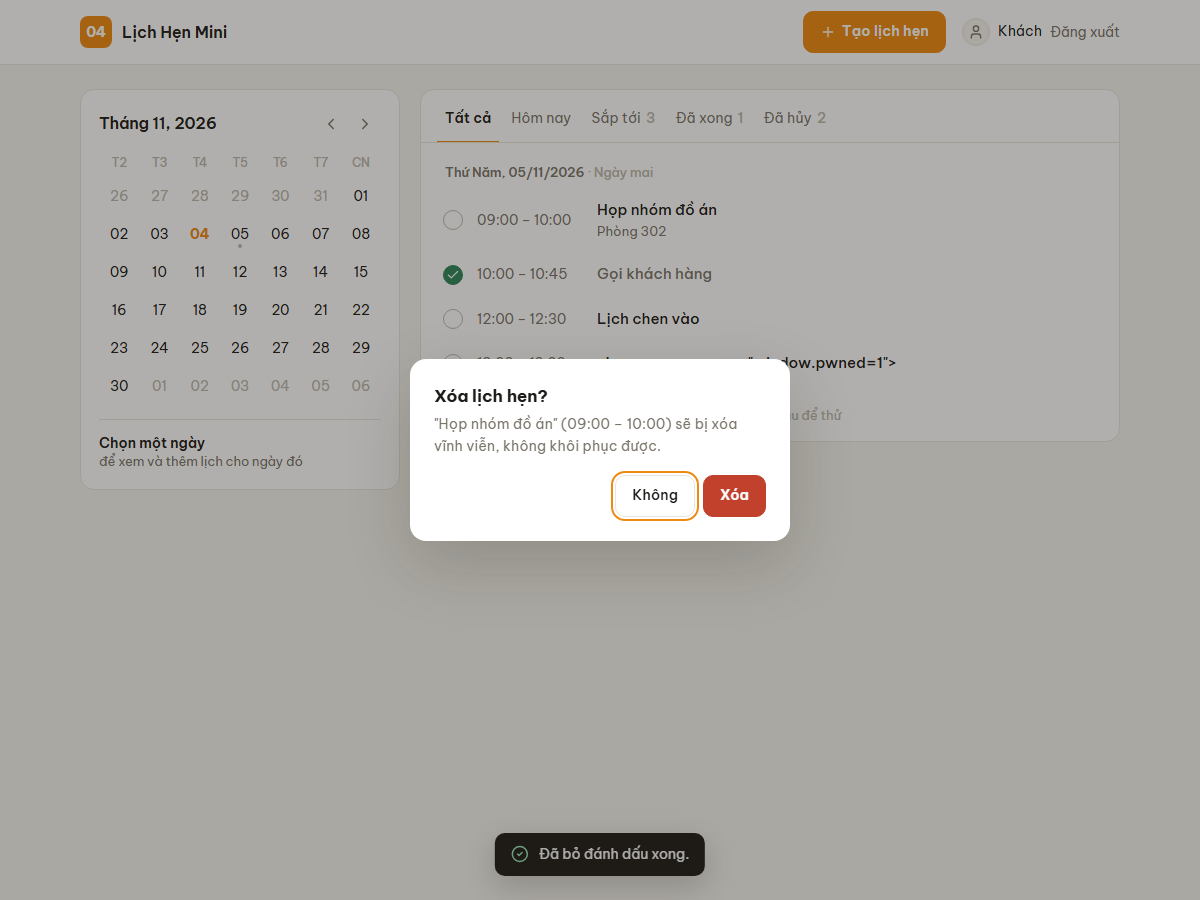
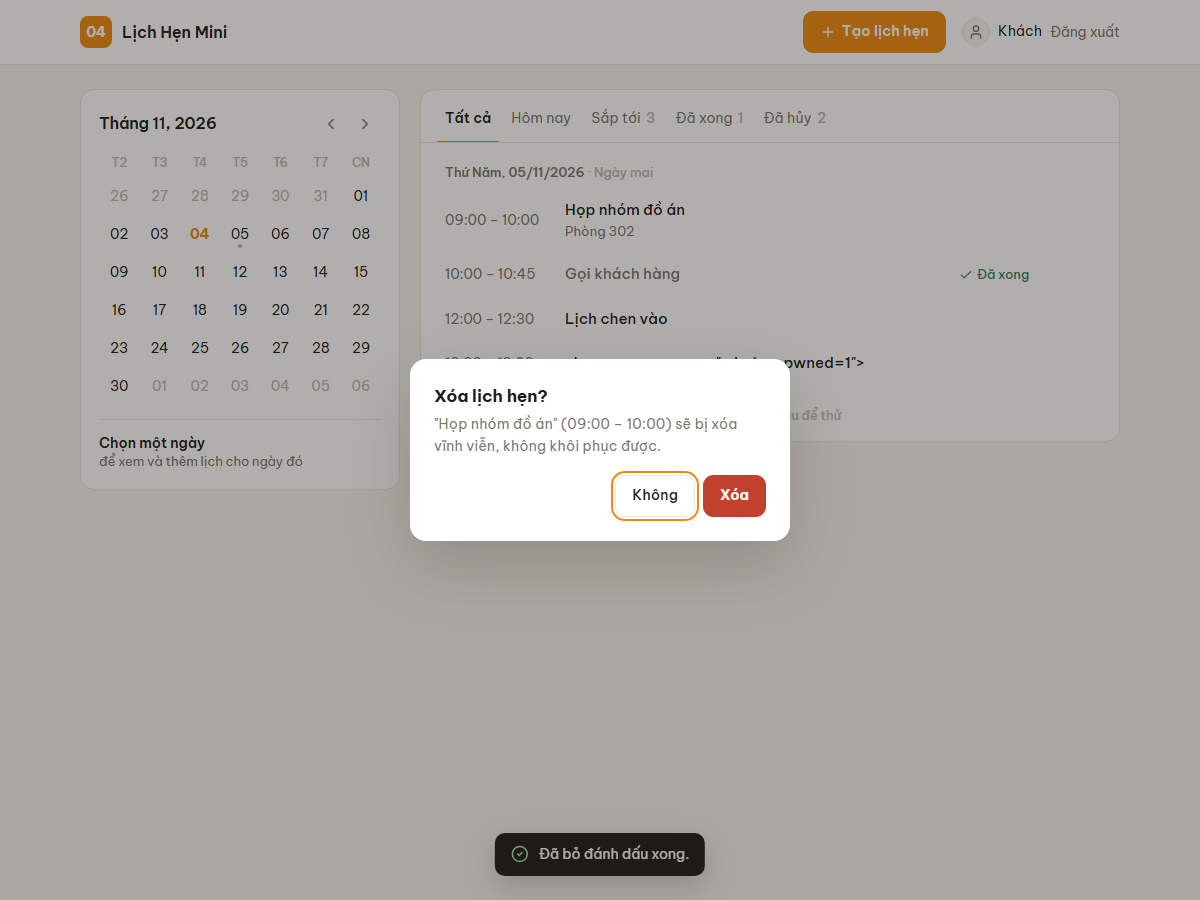
style: replace checklist-like done circle with status label + hover quick actions
- done rows show a green '✓ Đã xong' label at the end instead of a tick box
- quick actions (✓ mark done / ↺ undo, 🗑 delete) appear on hover, always on touch devices

diff --git a/src/app.js b/src/app.js
@@ -301,38 +301,21 @@ function statusActions(a, opts = {}) {
 }
 
 function itemState(a) {
-  if (a.status === STATUS.DONE) return ''; // vòng tròn xanh đã thể hiện
-  if (a.status === STATUS.CANCELLED) return 'Đã hủy';
-  if (toMs(a.end) <= Date.now()) return 'Đã qua';
-  return '';
+  if (a.status === STATUS.DONE) return el('span', { className: 'state done' }, icon('check', { size: 14 }), 'Đã xong');
+  if (a.status === STATUS.CANCELLED) return el('span', { className: 'state cancelled', textContent: 'Đã hủy' });
+  if (toMs(a.end) <= Date.now()) return el('span', { className: 'state', textContent: 'Đã qua' });
+  return el('span', { className: 'state' });
 }
 
-// Mỗi dòng chỉ gồm giờ, tiêu đề, trạng thái; bấm vào để mở chi tiết và thao tác.
-// Dòng lịch: vòng tròn đánh dấu xong | giờ + tiêu đề (bấm để xem chi tiết) | thùng rác.
-function renderItem(a) {
-  const done = a.status === STATUS.DONE;
-  const check =
-    a.status === STATUS.CANCELLED
-      ? el('span', { className: 'check-slot' })
-      : el(
-          'button',
-          {
-            type: 'button',
-            className: `check${done ? ' on' : ''}`,
-            title: done ? 'Bỏ đánh dấu xong' : 'Đánh dấu đã xong',
-          },
-          done ? icon('check', { size: 14 }) : null,
-        );
-  check.setAttribute?.('aria-label', done ? `Bỏ đánh dấu xong "${a.title}"` : `Đánh dấu xong "${a.title}"`);
-  if (check.tagName === 'BUTTON') {
-    check.setAttribute('aria-pressed', String(done));
-    check.addEventListener('click', () =>
-      done
-        ? updateStatus(a.id, STATUS.SCHEDULED, 'Đã bỏ đánh dấu xong.')
-        : updateStatus(a.id, STATUS.DONE, 'Đã đánh dấu hoàn thành.'),
-    );
-  }
+function quickButton(iconName, cls, label, onClick) {
+  const b = el('button', { type: 'button', className: `icon-btn quick ${cls}`, title: label }, icon(iconName, { size: 16 }));
+  b.setAttribute('aria-label', label);
+  b.addEventListener('click', onClick);
+  return b;
+}
 
+// Dòng lịch: giờ + tiêu đề + trạng thái (bấm để xem chi tiết) | nút nhanh hiện khi rê chuột.
+function renderItem(a) {
   const open = el(
     'button',
     { type: 'button', className: 'item-open', title: 'Xem chi tiết' },
@@ -343,20 +326,31 @@ function renderItem(a) {
       el('span', { className: 'title', textContent: a.title }),
       a.note ? el('span', { className: 'note', textContent: a.note }) : null,
     ),
-    el('span', { className: 'state', textContent: itemState(a) }),
+    itemState(a),
   );
   open.addEventListener('click', () => openDetail(a.id));
 
-  const trash = el('button', { type: 'button', className: 'icon-btn trash', title: 'Xóa' }, icon('trash', { size: 16 }));
-  trash.setAttribute('aria-label', `Xóa "${a.title}"`);
-  trash.addEventListener('click', () => confirmDelete(a));
+  const quick = el('div', { className: 'quick-actions' });
+  if (a.status === STATUS.SCHEDULED) {
+    quick.append(
+      quickButton('check', 'quick-done', `Đánh dấu đã xong "${a.title}"`, () =>
+        updateStatus(a.id, STATUS.DONE, 'Đã đánh dấu hoàn thành.'),
+      ),
+    );
+  } else if (a.status === STATUS.DONE) {
+    quick.append(
+      quickButton('rotate-ccw', 'quick-done', `Bỏ đánh dấu xong "${a.title}"`, () =>
+        updateStatus(a.id, STATUS.SCHEDULED, 'Đã bỏ đánh dấu xong.'),
+      ),
+    );
+  }
+  quick.append(quickButton('trash', 'trash', `Xóa "${a.title}"`, () => confirmDelete(a)));
 
   return el(
     'div',
     { className: `item is-${a.status}${highlightIds.has(a.id) ? ' highlight' : ''}` },
-    check,
     open,
-    trash,
+    quick,
   );
 }
 

diff --git a/css/style.css b/css/style.css
@@ -183,11 +183,11 @@ body {
 
 .item {
   display: grid;
-  grid-template-columns: 22px 1fr 32px;
-  gap: 12px;
+  grid-template-columns: 1fr auto;
+  gap: 8px;
   align-items: center;
   border-radius: 10px;
-  padding: 6px 8px 6px 14px;
+  padding: 6px 8px 6px 16px;
 }
 .item:hover { background: var(--hover); }
 .item-open {
@@ -207,42 +207,25 @@ body {
 }
 .item-open:focus-visible { outline: 2px solid var(--accent); outline-offset: 2px; }
 
-/* Vòng tròn đánh dấu xong */
-.check {
-  width: 20px;
-  height: 20px;
-  border-radius: 50%;
-  border: 1.5px solid var(--faint);
-  background: var(--card);
-  display: grid;
-  place-items: center;
-  padding: 0;
-  color: #fff;
-  cursor: pointer;
-  transition: border-color 0.12s, background 0.12s;
-}
-.check:hover { border-color: var(--done); }
-.check.on { background: var(--done); border-color: var(--done); }
-.check:focus-visible { outline: 2px solid var(--accent); outline-offset: 2px; }
-
-/* Thùng rác: chỉ hiện khi rê chuột / focus; thiết bị cảm ứng thì luôn hiện */
-.icon-btn.trash { opacity: 0; }
-.item:hover .icon-btn.trash, .icon-btn.trash:focus-visible { opacity: 1; }
+/* Nút nhanh (xong / xóa): chỉ hiện khi rê chuột hoặc focus; thiết bị cảm ứng thì luôn hiện */
+.quick-actions { display: flex; gap: 2px; opacity: 0; transition: opacity 0.12s; }
+.item:hover .quick-actions, .quick-actions:focus-within { opacity: 1; }
+@media (hover: none) { .quick-actions { opacity: 1; } }
+.icon-btn.quick-done:hover { color: var(--done); background: #ebf6ef; }
 .icon-btn.trash:hover { color: var(--cancel); background: #fbefec; }
-@media (hover: none) { .icon-btn.trash { opacity: 1; } }
 .item .time { font-size: 0.86rem; color: var(--muted); font-variant-numeric: tabular-nums; white-space: nowrap; }
 .item .item-body { min-width: 0; display: flex; flex-direction: column; }
 .item .title { font-weight: 500; overflow: hidden; text-overflow: ellipsis; white-space: nowrap; }
 .item .note { color: var(--muted); font-size: 0.82rem; overflow: hidden; text-overflow: ellipsis; white-space: nowrap; }
-.item .state { font-size: 0.8rem; color: var(--faint); white-space: nowrap; }
+.item .state { font-size: 0.8rem; color: var(--faint); white-space: nowrap; display: inline-flex; align-items: center; gap: 4px; }
 .item.is-done .title { color: var(--muted); }
-.item.is-done .state { color: var(--done); }
+.item .state.done { color: var(--done); font-weight: 500; }
 .item.is-cancelled .title { color: var(--faint); text-decoration: line-through; }
 .item.is-cancelled .time { color: var(--faint); }
-.item.is-cancelled .state { color: var(--cancel); }
+.item .state.cancelled { color: var(--cancel); }
 .item.highlight { background: var(--warn-bg); box-shadow: inset 3px 0 0 var(--warn-line); }
 @media (max-width: 560px) {
-  .item { padding-left: 10px; }
+  .item { padding-left: 12px; }
   .item-open { grid-template-columns: 1fr auto; gap: 2px 12px; }
   .item .time { grid-column: 1; }
   .item .item-body { grid-column: 1; grid-row: 2; }

diff --git a/scripts/e2e-smoke.js b/scripts/e2e-smoke.js
@@ -245,13 +245,14 @@ await evaluate("document.querySelector('#detail-close').click()");
 check('E2E-28 đóng popup chi tiết', await evaluate("!document.querySelector('#detail-dialog').open"));
 
 // Thao tác nhanh trên dòng: vòng tròn đánh dấu xong + thùng rác với popup xác nhận riêng
-await evaluate("document.querySelector('.item.is-scheduled .check').click()");
-check('E2E-29 bấm vòng tròn trên dòng → đánh dấu xong ngay, không cần mở chi tiết', await evaluate(
-  "!document.querySelector('#detail-dialog').open && document.querySelectorAll('.item.is-done .check.on').length >= 1",
-));
-const doneBefore = await evaluate("document.querySelectorAll('.item.is-done').length");
-await evaluate("document.querySelector('.item.is-done .check').click()");
-check('E2E-30 bấm lại vòng tròn → bỏ đánh dấu', (await evaluate("document.querySelectorAll('.item.is-done').length")) === doneBefore - 1);
+const doneCount = () => evaluate("document.querySelectorAll('.item.is-done').length");
+const done0 = await doneCount();
+await evaluate("document.querySelector('.item.is-scheduled .quick-done').click()");
+check('E2E-29 nút nhanh ✓ trên dòng → đánh dấu xong ngay, không cần mở chi tiết, dòng hiện "Đã xong"', await evaluate(
+  "!document.querySelector('#detail-dialog').open && [...document.querySelectorAll('.item.is-done .state')].every((s) => s.textContent.includes('Đã xong'))",
+) && (await doneCount()) === done0 + 1);
+await evaluate("document.querySelector('.item.is-done .quick-done').click()");
+check('E2E-30 nút nhanh ↺ trên dòng đã xong → bỏ đánh dấu', (await doneCount()) === done0);
 
 const rows = () => evaluate("document.querySelectorAll('#list .item').length");
 const rowsBefore = await rows();

diff --git a/docs/TEST_CASES.md b/docs/TEST_CASES.md
@@ -53,7 +53,7 @@ Có 3 lớp kiểm thử:
 | TC-T29 | Bấm tab "Đã xong", rồi tab "Tất cả" | Tab "Đã xong": chỉ còn lịch đã xong, đúng số ghi trên tab; "Tất cả": bỏ lọc | ✅ Pass |
 | TC-T30 | Có lịch đã xong ở 3 ngày khác nhau (hôm qua, 3 ngày trước, 6 ngày trước), bấm tab "Đã xong" | Nhóm theo từng ngày, **hôm qua lên đầu**, mỗi nhóm có nhãn "Hôm qua"/"3 ngày trước" | ✅ Pass |
 | TC-T31 | Bấm vào một lịch đã hủy mà khung giờ đã bị lịch khác chiếm → bấm "Khôi phục" trong popup | Popup vẫn mở, hiện hộp cảnh báo nêu lịch đang chiếm giờ; trạng thái vẫn là "Đã hủy" | ✅ Pass |
-| TC-T32 | Bấm vòng tròn bên trái một lịch sắp tới, rồi bấm lại | Lần 1: vòng tròn xanh có dấu tích, số ở tab "Đã xong" tăng; lần 2: về như cũ | ✅ Pass |
+| TC-T32 | Rê chuột vào một lịch sắp tới → bấm nút ✓, rồi bấm nút ↺ trên cùng dòng | Lần 1: dòng hiện "✓ Đã xong" màu xanh, số ở tab "Đã xong" tăng; lần 2: về như cũ | ✅ Pass |
 | TC-T33 | Rê chuột vào một dòng → bấm thùng rác → "Không", rồi làm lại → "Xóa" | Hiện popup "Xóa lịch hẹn?" của app (không phải hộp "localhost says"); "Không" giữ nguyên, "Xóa" xóa đúng lịch đó | ✅ Pass |
 
 ### A4. Đăng nhập
